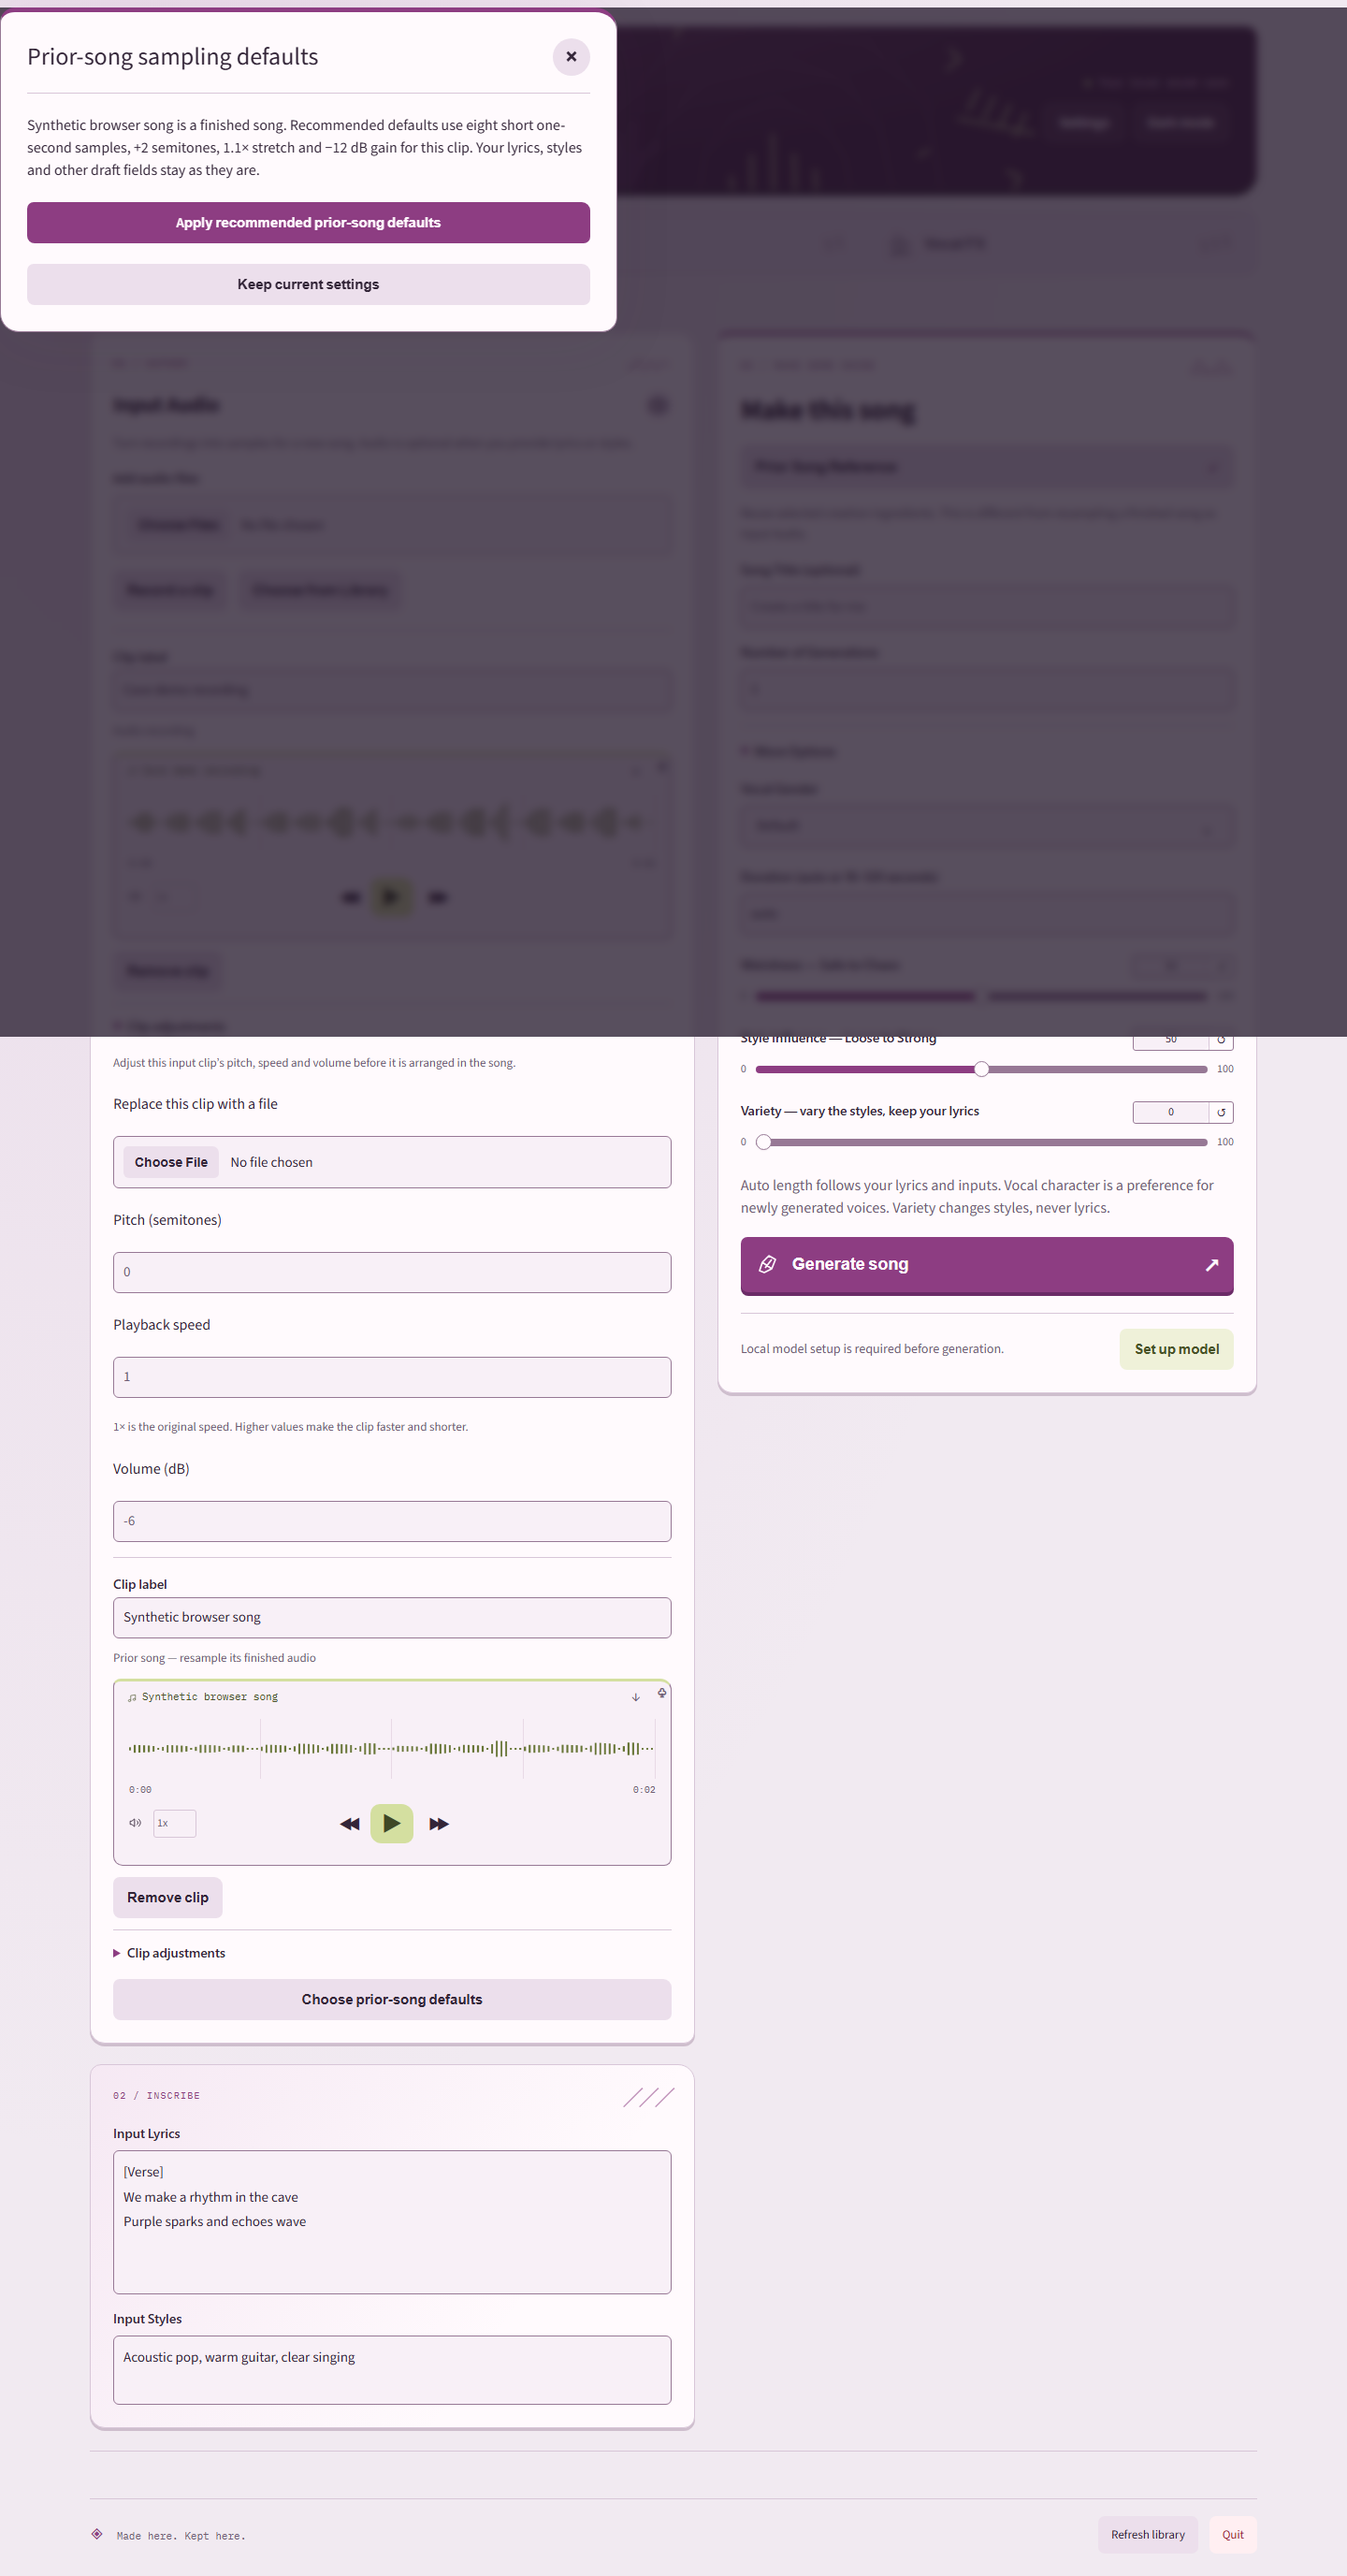
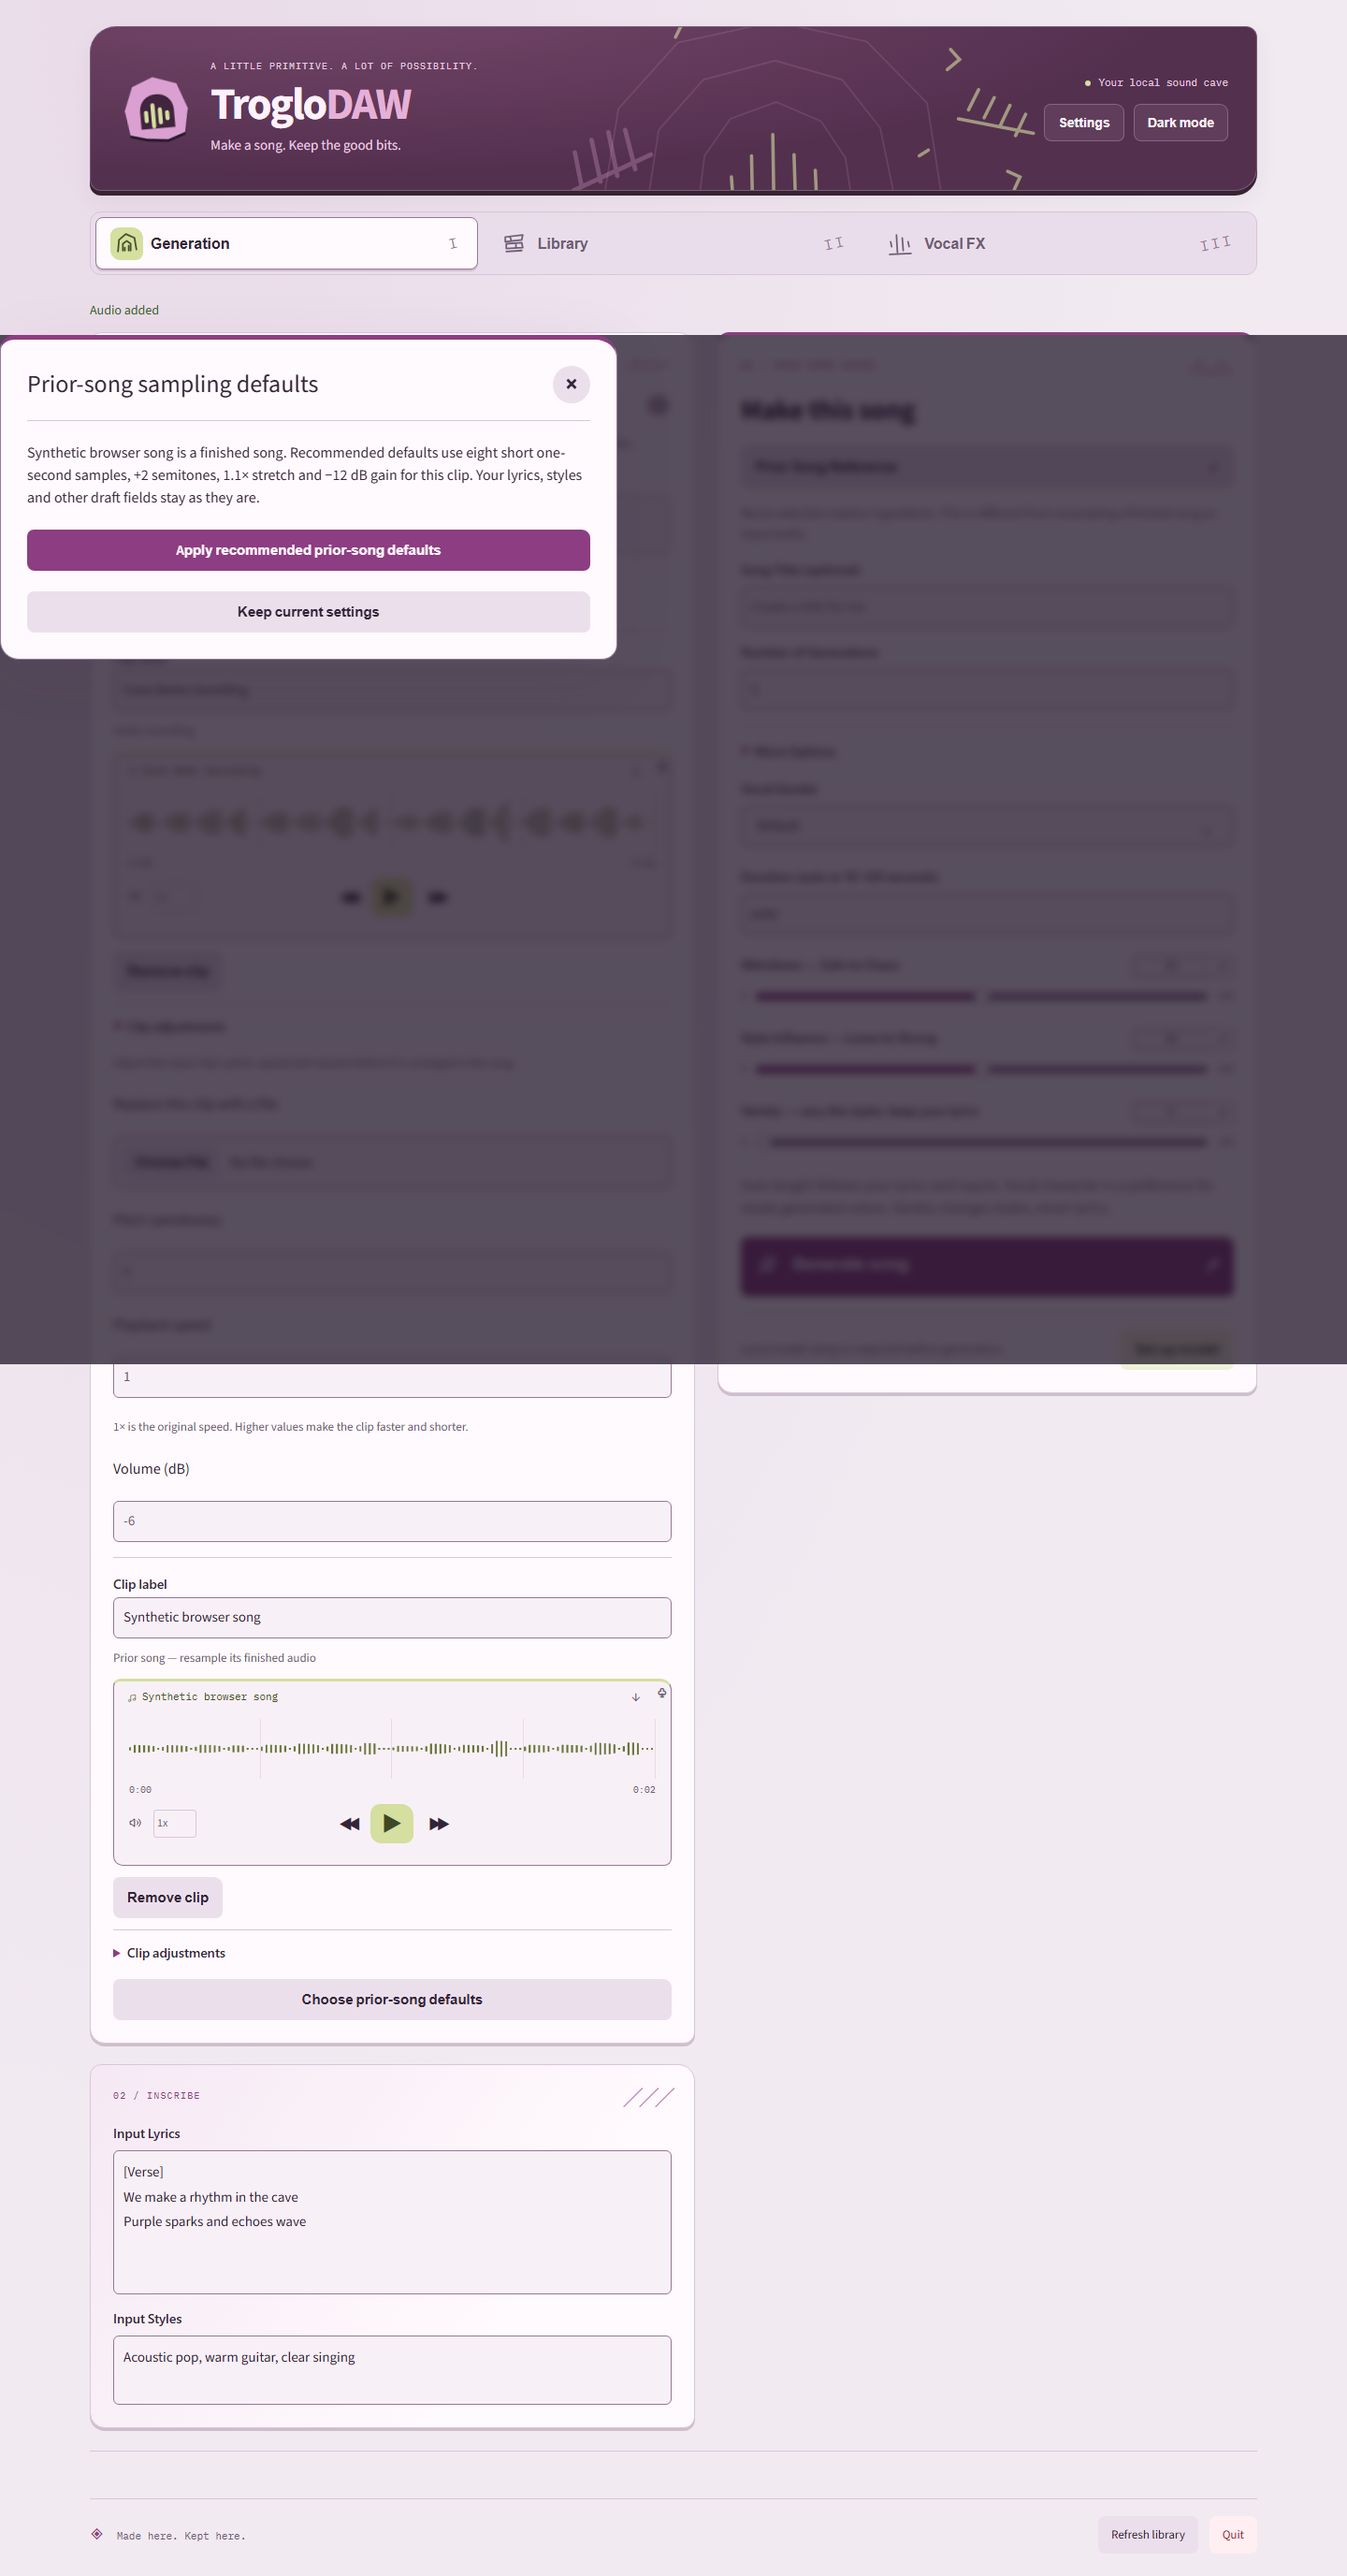
style: replace cave hand with rhythm tally marks

diff --git a/frontend/src/app.html b/frontend/src/app.html
@@ -9,10 +9,7 @@
         class="mural-rhythm"
         d="m158 147 1 14m17-33 1 50m18-69 1 65m18-47 1 32m18-18 1 22M370 87l9-18m5 25 9-18m5 26 9-19m5 27 9-19m-60 4 67 13"
       />
-      <path
-        class="mural-hand"
-        d="m67 129-6-19c-2-6-9-4-7 2l3 12-11-29c-2-6-9-3-7 3l8 26-15-23c-4-5-10-1-7 4l14 25-17-14c-5-4-10 2-5 6l20 21 9 22 24-6 9-22 14-15c4-5-2-10-6-6l-13 11-1-25c0-7-8-7-8 0Z"
-      />
+      <path class="mural-tally" d="m24 155-6-30m23 26-8-37m23 32-8-39m24 33-9-35m-46 54 69-32" />
       <path class="mural-sparks" d="m354 33 8 9-11 9m54 91 11 5-5 11M108 22l5-10m213 116 8-5" />
     </svg>
     <div>

diff --git a/frontend/src/styles.css b/frontend/src/styles.css
@@ -1065,9 +1065,12 @@ main {
   fill: none;
   opacity: 0.6;
 }
-.mural-hand {
-  fill: #dca2cd;
-  opacity: 0.11;
+.mural-tally {
+  stroke: #dca2cd;
+  stroke-width: 4;
+  stroke-linecap: round;
+  fill: none;
+  opacity: 0.3;
 }
 .identity {
   display: flex;

diff --git a/docs/branding.md b/docs/branding.md
@@ -3,7 +3,7 @@
 TrogloDAW is the current product name in the app/header/browser title, Windows
 installer/product/uninstall metadata and shortcuts, startup/console messages,
 README and maintained product/development/packaging guides. The cave-arch waveform
-mark uses pink-purple/lavender and pale lime; a hand-stencil cave-wall mural,
+mark uses pink-purple/lavender and pale lime; a cave-wall contour and tally mural,
 carved workflow glyphs, stone strata and rhythm marks extend the identity across
 task panels. Purple-family accents predominate; deliberate lime player, waveform,
 selection and setup accents provide approximately a quarter of the accent design.

diff --git a/docs/ui-parity/themes/README.md b/docs/ui-parity/themes/README.md
@@ -2,7 +2,7 @@
 
 Reference: [WRK-5 palette attachment](https://linear.app/magentumdragon/issue/WRK-5/pr-2-brand-troglodaw-across-the-app-and-docs-add-caveman-lightdark).
 The provided pink-purple/lavender and pale lime image informed the cave-wall mural,
-hand stencil, carved workflow glyphs, stone strata and rhythm marks. Purple-family
+tally marks, carved workflow glyphs, stone strata and rhythm marks. Purple-family
 accents predominate with deliberate lime playback/waveform/selection/setup accents.
 Text/control derivatives are tuned for contrast.
 These captures use the actual compiled frontend/FastAPI and explicitly synthetic
